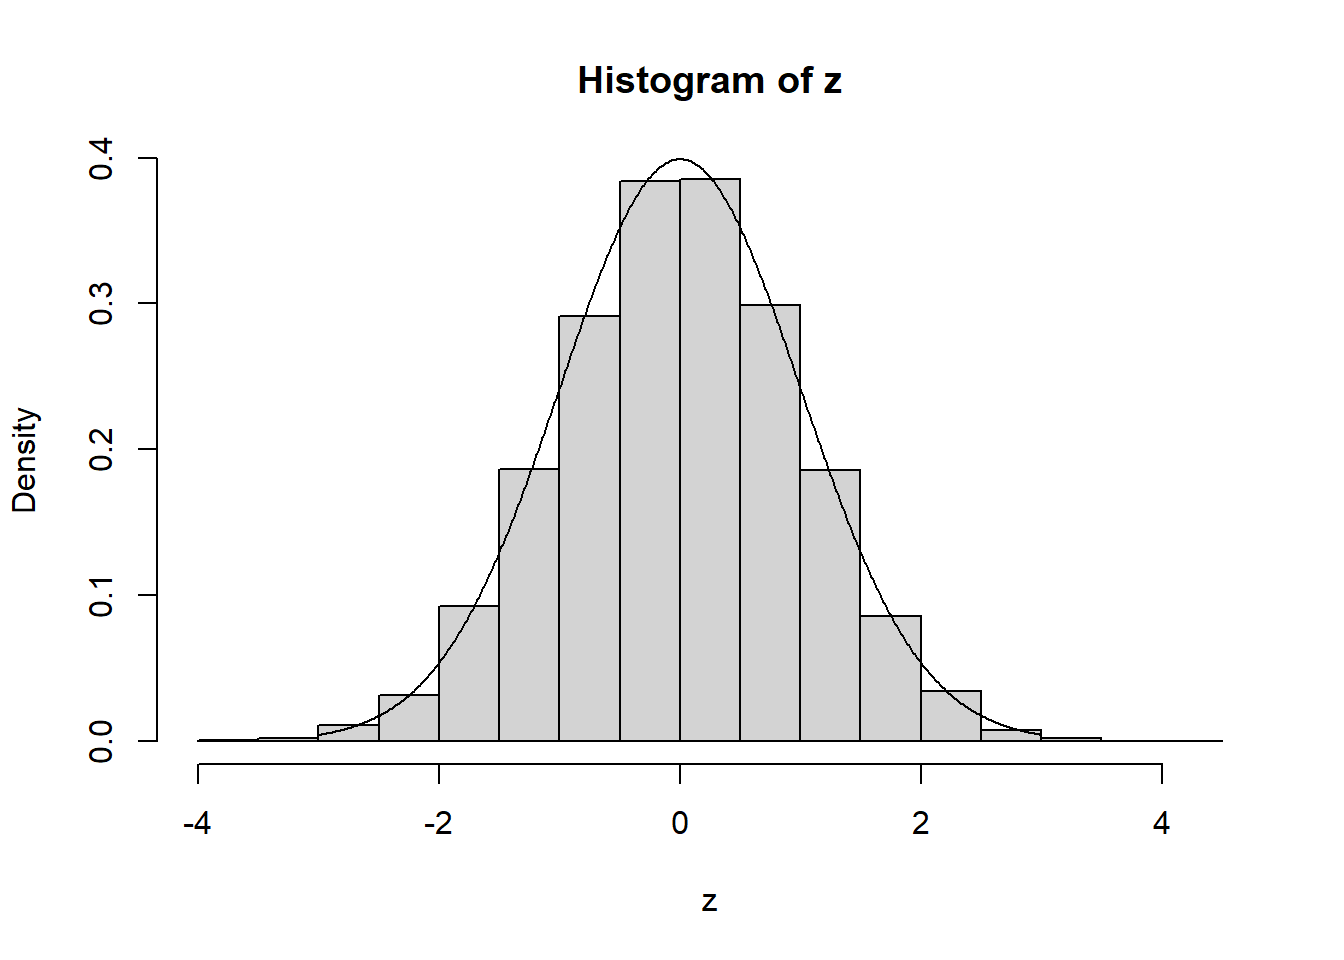
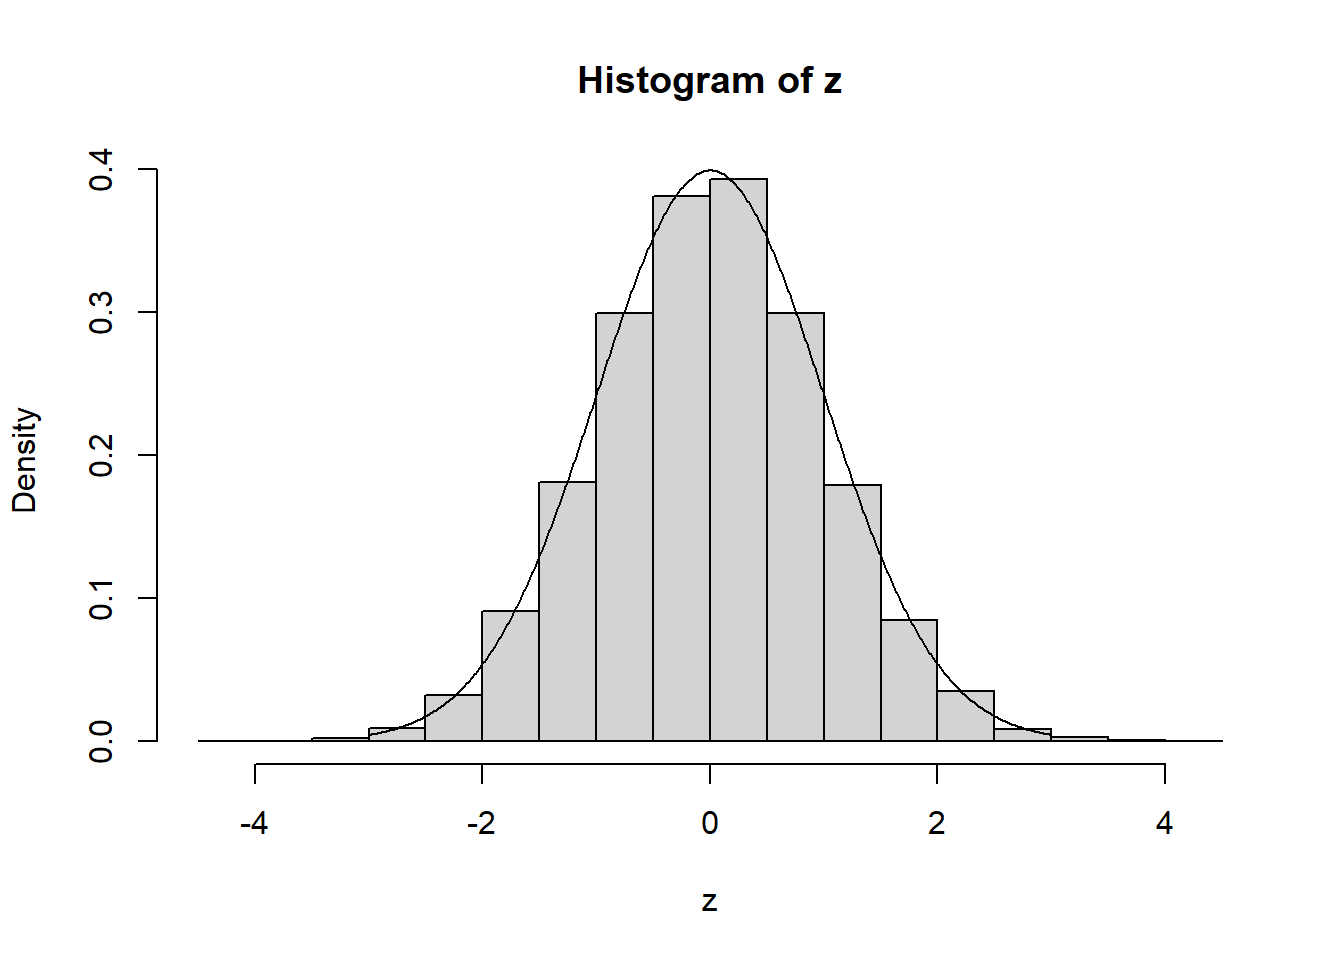
New Version Lesson One

diff --git a/LJMU_R/introduction-to-r.html b/LJMU_R/introduction-to-r.html
@@ -53,6 +53,7 @@
 <script src="libs/accessible-code-block-0.0.1/empty-anchor.js"></script>
 <link href="libs/anchor-sections-1.0/anchor-sections.css" rel="stylesheet" />
 <script src="libs/anchor-sections-1.0/anchor-sections.js"></script>
+<link rel="shortcut icon" href="favicon.png">
 
 
 <style type="text/css">
@@ -131,7 +132,7 @@ code span.wa { color: #60a0b0; font-weight: bold; font-style: italic; } /* Warni
       <nav role="navigation">
 
 <ul class="summary">
-<li class="chapter" data-level="" data-path="index.html"><a href="index.html"><i class="fa fa-check"></i>Welcome</a></li>
+<li class="chapter" data-level="" data-path="index.html"><a href="index.html"><i class="fa fa-check"></i>Statistics in R</a></li>
 <li class="chapter" data-level="1" data-path="introduction-to-r.html"><a href="introduction-to-r.html"><i class="fa fa-check"></i><b>1</b> Introduction to R</a>
 <ul>
 <li class="chapter" data-level="1.1" data-path="introduction-to-r.html"><a href="introduction-to-r.html#r-rstudio"><i class="fa fa-check"></i><b>1.1</b> R &amp; RStudio</a>
@@ -243,7 +244,7 @@ code span.wa { color: #60a0b0; font-weight: bold; font-style: italic; } /* Warni
 <p>Next port of call should be Google/Ecosia/Bing or whatever your Search Engine of choice is. If you have a question that you need to know, type in “R” and then just <em>ask</em> that question to your search engine. I don’t mean try to phrase it in a certain way, I mean write the question exactly how you would ask it!</p>
 <center>
 <div style="position:relative;padding-bottom:30px;padding-top:30px;">
-<p><img src="src/images/Google_Mean.png" id="id" class="class" style="width:80.0%" /></p>
+<p><img src="src/images/01_Google_Mean.png" id="id" class="class" style="width:80.0%" /></p>
 </div>
 </center>
 <p>When you search for something, a lot of results will probably be tutorials on how to do what you’re trying to do. If what you’re asking is a common question, these will be good resources.</p>
@@ -265,7 +266,7 @@ code span.wa { color: #60a0b0; font-weight: bold; font-style: italic; } /* Warni
 <pre><code>## [1] 1 2 3</code></pre>
 <p>I used a little bit of Jargon there, but to keep things clear. A <strong>function</strong> is a command that tells R to do <em>something</em> and an <strong>argument</strong> is the information or data you give to the function so it can do it’s job. Sometimes functions don’t need arguments:</p>
 <div class="sourceCode" id="cb10"><pre class="sourceCode r"><code class="sourceCode r"><span id="cb10-1"><a href="introduction-to-r.html#cb10-1"></a><span class="kw">Sys.time</span>()</span></code></pre></div>
-<pre><code>## [1] &quot;2020-11-05 00:13:16 GMT&quot;</code></pre>
+<pre><code>## [1] &quot;2020-11-05 01:26:24 GMT&quot;</code></pre>
 <p>But the key to remember is that a function has <em>brackets</em> <code>()</code> right after it’s name.</p>
 <p>And, a word of warning, R is <strong>Case Sensitive</strong>. This means you need to be careful that you use upper and lower case appropriately.</p>
 <div class="sourceCode" id="cb12"><pre class="sourceCode r"><code class="sourceCode r"><span id="cb12-1"><a href="introduction-to-r.html#cb12-1"></a><span class="kw">sys.time</span>()</span></code></pre></div>
@@ -523,8 +524,7 @@ F(x) = \int_{-\infty}^x f(u) \;\textrm{d}u = \textrm{Prob}\left(X &lt; x\right)
 <h4><span class="header-section-number">1.5.1.4</span> Random Function</h4>
 <div class="sourceCode" id="cb91"><pre class="sourceCode r"><code class="sourceCode r"><span id="cb91-1"><a href="introduction-to-r.html#cb91-1"></a>z &lt;-<span class="st"> </span><span class="kw">rnorm</span>(<span class="dv">100</span>, <span class="dt">mean =</span> <span class="dv">0</span>, <span class="dt">sd =</span> <span class="dv">1</span>)</span>
 <span id="cb91-2"><a href="introduction-to-r.html#cb91-2"></a><span class="kw">head</span>(z)</span></code></pre></div>
-<pre><code>## [1] -1.156320430 -0.002846483  0.375596152  1.109888911 -0.823263576
-## [6] -0.384256491</code></pre>
+<pre><code>## [1] -0.3667038  0.5335182  0.5094883 -0.8728738  1.3966460 -0.1902307</code></pre>
 <p>If you were to print out the <code>z</code> variable, you’d see 100 random numbers. The first argument we pass to the function <code>rnorm()</code> tells it how many random numbers to generate. These random numbers have been drawn from the Standard Normal distribution and so they will follow that distribution. We can see this with the following plot:</p>
 <div class="sourceCode" id="cb93"><pre class="sourceCode r"><code class="sourceCode r"><span id="cb93-1"><a href="introduction-to-r.html#cb93-1"></a><span class="kw">hist</span>(z)</span></code></pre></div>
 <p><img src="_main_files/figure-html/unnamed-chunk-44-1.png" width="672" style="display: block; margin: auto;" />

diff --git a/LJMU_R/index.html b/LJMU_R/index.html
@@ -53,6 +53,7 @@
 <script src="libs/accessible-code-block-0.0.1/empty-anchor.js"></script>
 <link href="libs/anchor-sections-1.0/anchor-sections.css" rel="stylesheet" />
 <script src="libs/anchor-sections-1.0/anchor-sections.js"></script>
+<link rel="shortcut icon" href="favicon.png">
 
 
 <style type="text/css">
@@ -131,7 +132,7 @@ code span.wa { color: #60a0b0; font-weight: bold; font-style: italic; } /* Warni
       <nav role="navigation">
 
 <ul class="summary">
-<li class="chapter" data-level="" data-path="index.html"><a href="index.html"><i class="fa fa-check"></i>Welcome</a></li>
+<li class="chapter" data-level="" data-path="index.html"><a href="index.html"><i class="fa fa-check"></i>Statistics in R</a></li>
 <li class="chapter" data-level="1" data-path="introduction-to-r.html"><a href="introduction-to-r.html"><i class="fa fa-check"></i><b>1</b> Introduction to R</a>
 <ul>
 <li class="chapter" data-level="1.1" data-path="introduction-to-r.html"><a href="introduction-to-r.html#r-rstudio"><i class="fa fa-check"></i><b>1.1</b> R &amp; RStudio</a>
@@ -193,12 +194,12 @@ code span.wa { color: #60a0b0; font-weight: bold; font-style: italic; } /* Warni
 </address>
 <p class="date"><em>2020-11-05</em></p>
 </div>
-<div id="welcome" class="section level1 unnumbered" number="">
-<h1>Welcome</h1>
+<div id="statistics-in-r" class="section level1 unnumbered" number="">
+<h1>Statistics in R</h1>
 <div style="float:left;position:relative;padding-right:30px;">
 <p><img src="src/images/00_LJMU_R.png" id="id" class="class" width="200" /></p>
 </div>
-<p>Welcome to the Lecture Notes for the “Statistics in R” course, presented by the Academic Skills Team at LJMU. This course is currently presented as 5 chapters spread across five 1.5 hour sessions. Please use the contents list on the left to browse through the notes. You can expand or minimise the contents by clicking the three bars (<img src="src/images/00_Three_Bars.png" id="id" class="class" height="16" />) in the top left.</p>
+<p>Welcome to the Lecture Notes for the “Statistics in R” course, brought to you by the <a href="https://www.ljmu.ac.uk/microsites/library/skills-ljmu">Academic Skills Team</a> at LJMU. This course is currently constructed as 5 chapters and will be presented as 1.5 hour sessions each. Please use the contents list on the left to browse through the notes. You can expand or minimise the contents by clicking the three bars (<img src="src/images/00_Three_Bars.png" id="id" class="class" height="16" />) in the top left.</p>
 
 </div>
             </section>

diff --git a/LJMU_R/enter-the-tidyverse-verbs.html b/LJMU_R/enter-the-tidyverse-verbs.html
@@ -53,6 +53,7 @@
 <script src="libs/accessible-code-block-0.0.1/empty-anchor.js"></script>
 <link href="libs/anchor-sections-1.0/anchor-sections.css" rel="stylesheet" />
 <script src="libs/anchor-sections-1.0/anchor-sections.js"></script>
+<link rel="shortcut icon" href="favicon.png">
 
 
 <style type="text/css">
@@ -131,7 +132,7 @@ code span.wa { color: #60a0b0; font-weight: bold; font-style: italic; } /* Warni
       <nav role="navigation">
 
 <ul class="summary">
-<li class="chapter" data-level="" data-path="index.html"><a href="index.html"><i class="fa fa-check"></i>Welcome</a></li>
+<li class="chapter" data-level="" data-path="index.html"><a href="index.html"><i class="fa fa-check"></i>Statistics in R</a></li>
 <li class="chapter" data-level="1" data-path="introduction-to-r.html"><a href="introduction-to-r.html"><i class="fa fa-check"></i><b>1</b> Introduction to R</a>
 <ul>
 <li class="chapter" data-level="1.1" data-path="introduction-to-r.html"><a href="introduction-to-r.html#r-rstudio"><i class="fa fa-check"></i><b>1.1</b> R &amp; RStudio</a>

diff --git a/LJMU_R/enter-the-tidyverse-whats-next.html b/LJMU_R/enter-the-tidyverse-whats-next.html
@@ -53,6 +53,7 @@
 <script src="libs/accessible-code-block-0.0.1/empty-anchor.js"></script>
 <link href="libs/anchor-sections-1.0/anchor-sections.css" rel="stylesheet" />
 <script src="libs/anchor-sections-1.0/anchor-sections.js"></script>
+<link rel="shortcut icon" href="favicon.png">
 
 
 <style type="text/css">
@@ -131,7 +132,7 @@ code span.wa { color: #60a0b0; font-weight: bold; font-style: italic; } /* Warni
       <nav role="navigation">
 
 <ul class="summary">
-<li class="chapter" data-level="" data-path="index.html"><a href="index.html"><i class="fa fa-check"></i>Welcome</a></li>
+<li class="chapter" data-level="" data-path="index.html"><a href="index.html"><i class="fa fa-check"></i>Statistics in R</a></li>
 <li class="chapter" data-level="1" data-path="introduction-to-r.html"><a href="introduction-to-r.html"><i class="fa fa-check"></i><b>1</b> Introduction to R</a>
 <ul>
 <li class="chapter" data-level="1.1" data-path="introduction-to-r.html"><a href="introduction-to-r.html#r-rstudio"><i class="fa fa-check"></i><b>1.1</b> R &amp; RStudio</a>

diff --git a/LJMU_R/final-coding.html b/LJMU_R/final-coding.html
@@ -53,6 +53,7 @@
 <script src="libs/accessible-code-block-0.0.1/empty-anchor.js"></script>
 <link href="libs/anchor-sections-1.0/anchor-sections.css" rel="stylesheet" />
 <script src="libs/anchor-sections-1.0/anchor-sections.js"></script>
+<link rel="shortcut icon" href="favicon.png">
 
 
 <style type="text/css">
@@ -131,7 +132,7 @@ code span.wa { color: #60a0b0; font-weight: bold; font-style: italic; } /* Warni
       <nav role="navigation">
 
 <ul class="summary">
-<li class="chapter" data-level="" data-path="index.html"><a href="index.html"><i class="fa fa-check"></i>Welcome</a></li>
+<li class="chapter" data-level="" data-path="index.html"><a href="index.html"><i class="fa fa-check"></i>Statistics in R</a></li>
 <li class="chapter" data-level="1" data-path="introduction-to-r.html"><a href="introduction-to-r.html"><i class="fa fa-check"></i><b>1</b> Introduction to R</a>
 <ul>
 <li class="chapter" data-level="1.1" data-path="introduction-to-r.html"><a href="introduction-to-r.html#r-rstudio"><i class="fa fa-check"></i><b>1.1</b> R &amp; RStudio</a>

diff --git a/LJMU_R/show-your-work.html b/LJMU_R/show-your-work.html
@@ -53,6 +53,7 @@
 <script src="libs/accessible-code-block-0.0.1/empty-anchor.js"></script>
 <link href="libs/anchor-sections-1.0/anchor-sections.css" rel="stylesheet" />
 <script src="libs/anchor-sections-1.0/anchor-sections.js"></script>
+<link rel="shortcut icon" href="favicon.png">
 
 
 <style type="text/css">
@@ -131,7 +132,7 @@ code span.wa { color: #60a0b0; font-weight: bold; font-style: italic; } /* Warni
       <nav role="navigation">
 
 <ul class="summary">
-<li class="chapter" data-level="" data-path="index.html"><a href="index.html"><i class="fa fa-check"></i>Welcome</a></li>
+<li class="chapter" data-level="" data-path="index.html"><a href="index.html"><i class="fa fa-check"></i>Statistics in R</a></li>
 <li class="chapter" data-level="1" data-path="introduction-to-r.html"><a href="introduction-to-r.html"><i class="fa fa-check"></i><b>1</b> Introduction to R</a>
 <ul>
 <li class="chapter" data-level="1.1" data-path="introduction-to-r.html"><a href="introduction-to-r.html#r-rstudio"><i class="fa fa-check"></i><b>1.1</b> R &amp; RStudio</a>

diff --git a/LJMU_R/favicon.html b/LJMU_R/favicon.html
@@ -1,0 +1,1 @@
+<link rel="shortcut icon" href="favicon.png">
